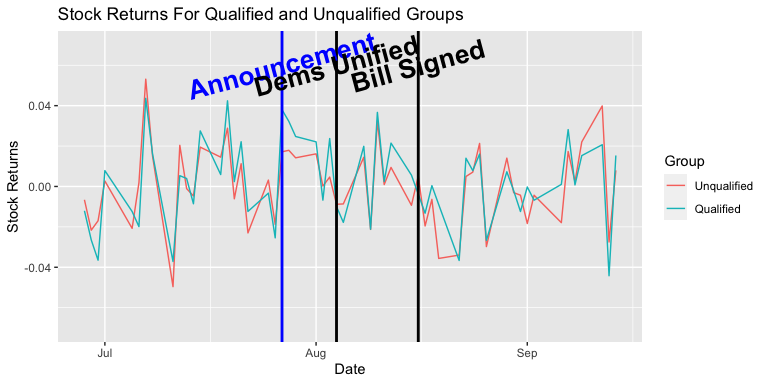
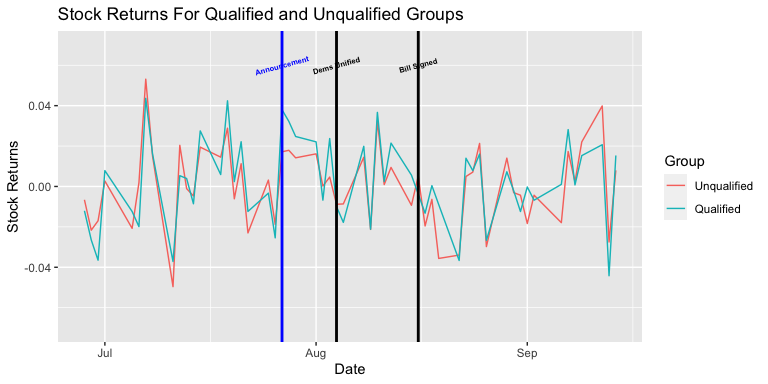
titled added to md

Changed region(s): [[0.25, 0.0938, 0.6562, 0.25]]

diff --git a/ThesisDataWrangling.md b/ThesisDataWrangling.md
@@ -1,4 +1,8 @@
+## Graph Comapring Stock Returns for Publically Traded Automakers by Grouping
+
 ![](ThesisDataWrangling_files/figure-markdown_strict/unnamed-chunk-8-1.png)
+
+## Diff-in-Diff Regression Output
 
 
     Call:
@@ -203,6 +207,8 @@
     Residual standard error: 0.02161 on 827 degrees of freedom
     Multiple R-squared:  0.4818,    Adjusted R-squared:  0.4147 
     F-statistic: 7.185 on 107 and 827 DF,  p-value: < 2.2e-16
+
+## More visualizations
 
 ![](ThesisDataWrangling_files/figure-markdown_strict/unnamed-chunk-11-1.png)
 ![](ThesisDataWrangling_files/figure-markdown_strict/unnamed-chunk-12-1.png)
